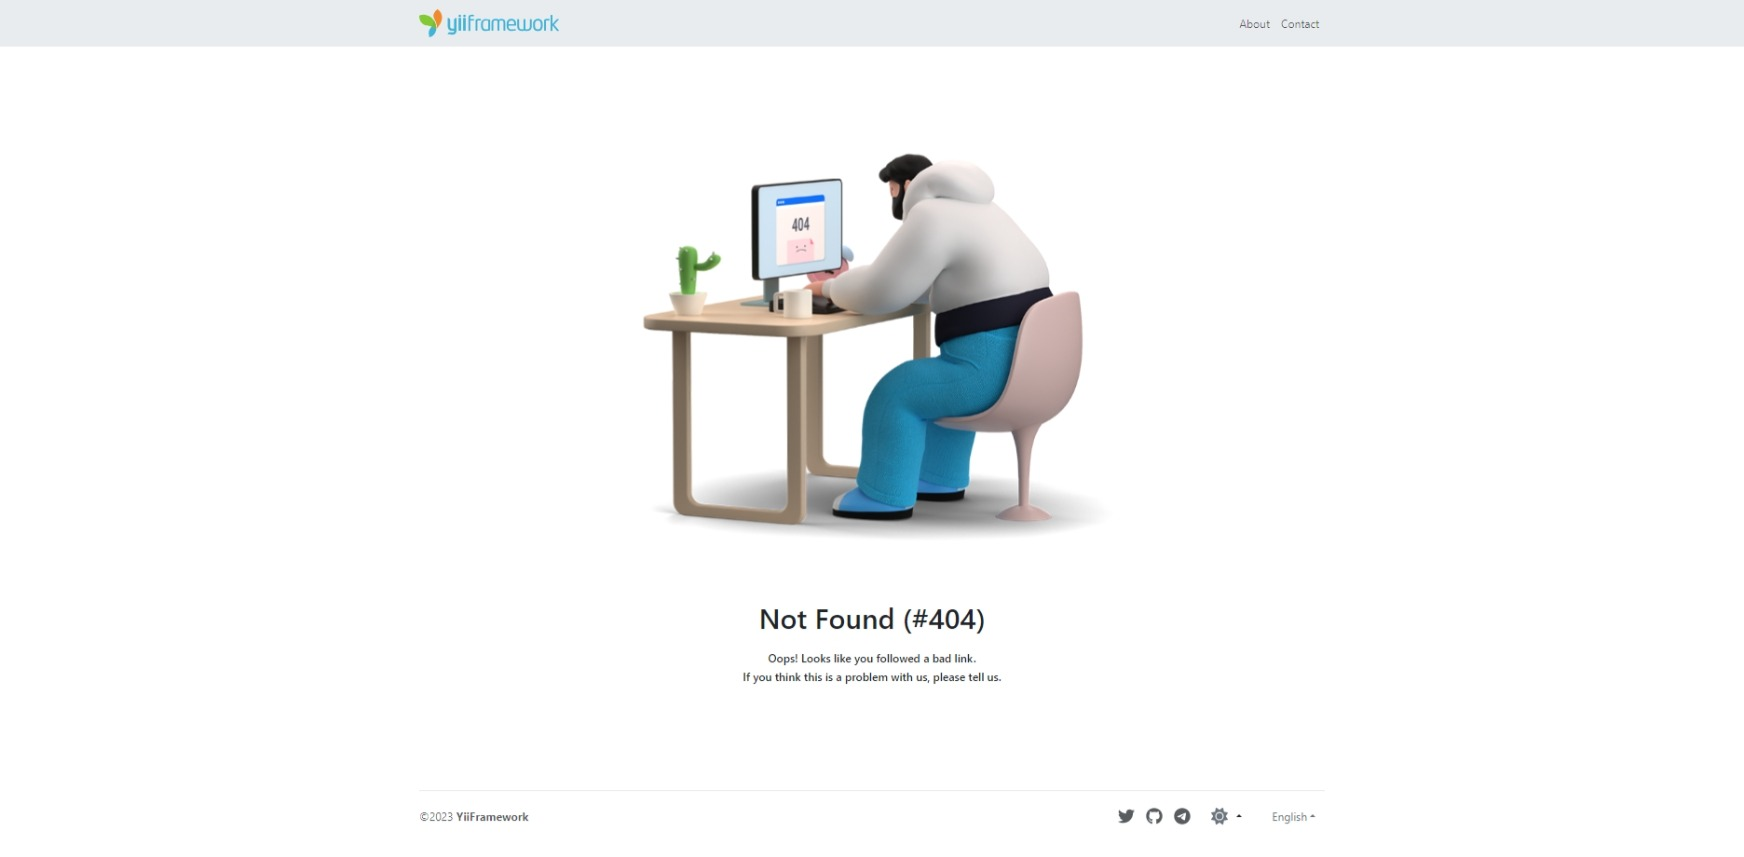
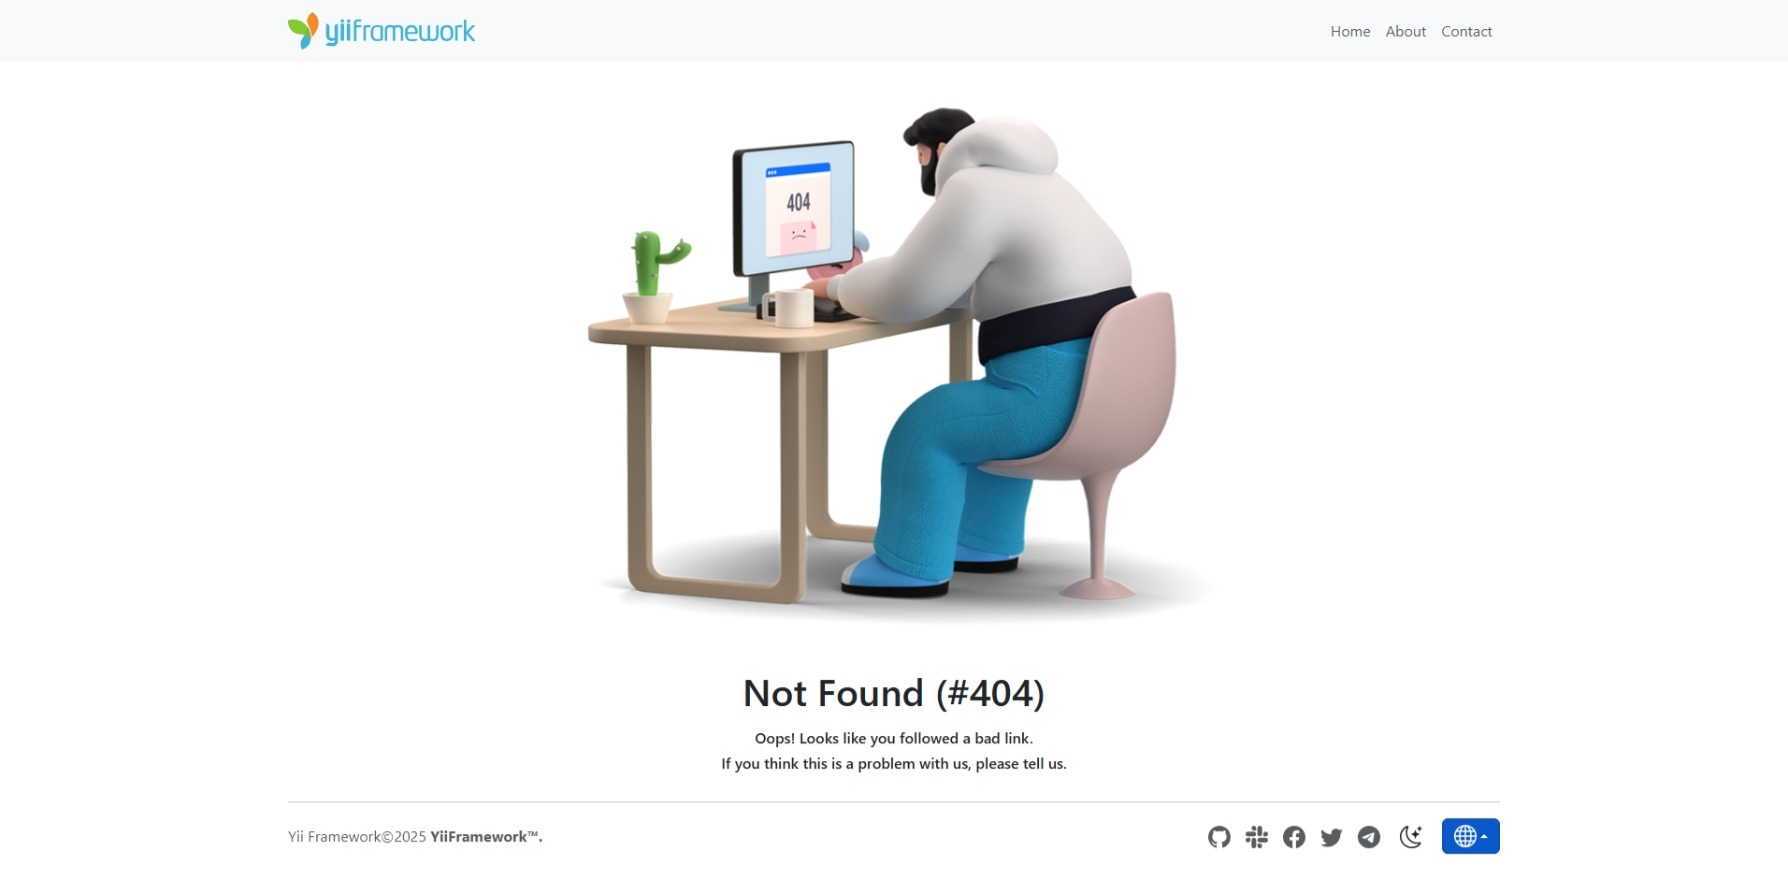
Refactor `layout` and styling in `404` and contact views for improved consistency.

diff --git a/src/usecase/site/view/404.php b/src/usecase/site/view/404.php
@@ -12,17 +12,17 @@ use yii\web\View;
 $this->title = $name;
 ?>
 <div class="d-flex flex-column align-items-center justify-center">
-    <div class="text-center mb-3">
+    <div class="text-center">
         <?= Html::img(
             'https://raw.githubusercontent.com/yii-tools/.github/61bbcb1b1f777740cce4200f95ae4bc0aa4350a8/images/app/404.svg',
             [
                 'alt' => '404',
-                'class' => 'img-fluid mb-4',
+                'class' => 'img-fluid',
             ],
         ) ?>
     </div>
-    <div class="text-center mb-3">
-        <h1 class="mb-4"><?= Html::encode($this->title) ?></h1>
+    <div class="text-center">
+        <h1 class="mb-3"><?= Html::encode($this->title) ?></h1>
         <h6><?= Html::encode(Yii::t('app.basic', 'Oops! Looks like you followed a bad link.')) ?></h6>
         <h6><?= Html::encode(Yii::t('app.basic', 'If you think this is a problem with us, please tell us.')) ?></h6>
     </div>

diff --git a/src/usecase/contact/view/index.php b/src/usecase/contact/view/index.php
@@ -86,7 +86,7 @@ $tabInput = 1;
             </div>
         </div>
     </div>
-    <p class="text-center mt-5">
+    <p class="text-center">
         <?php if ($session->hasFlash('contactFormSubmitted')) : ?>
             <hr>
             <p class="text-success">
